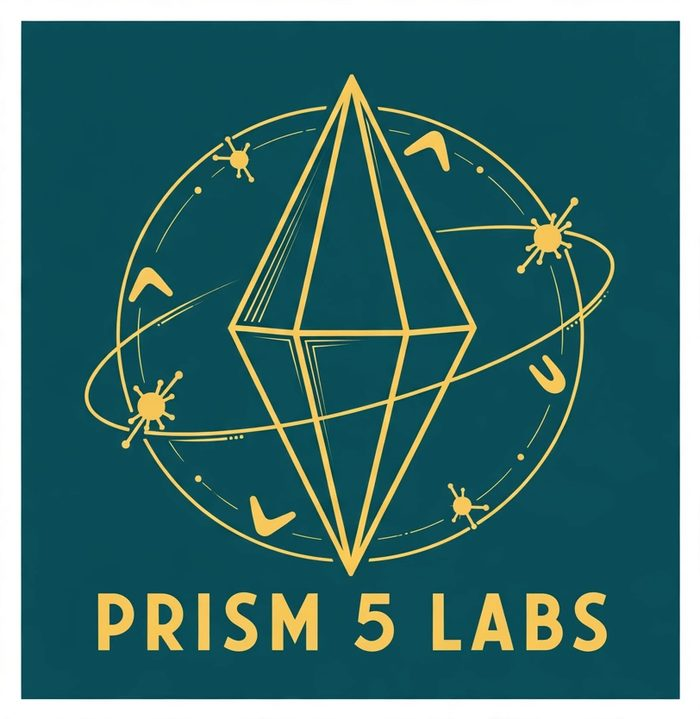
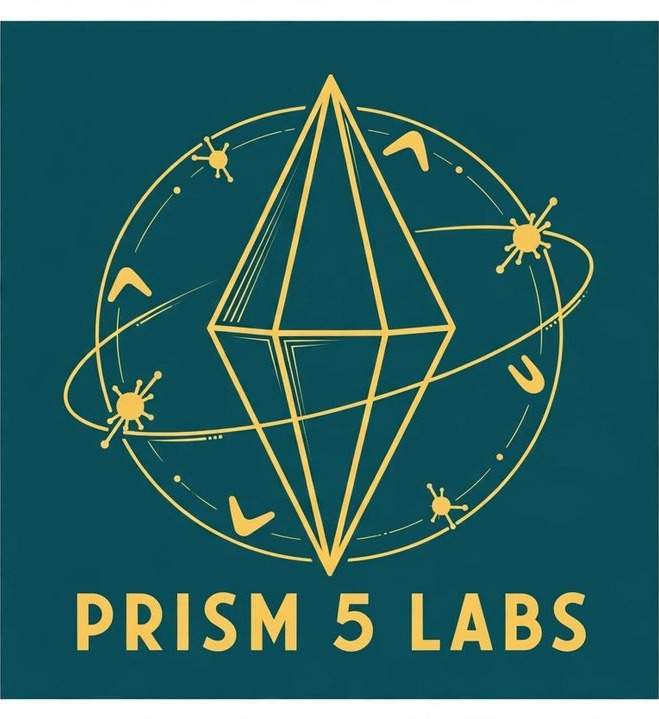
Sputnik hero: crop the 20px white strip off the right edge of sputnik.jpg (and 21px left) so the hero shows no white sliver; cache to v18

diff --git a/public/sw.js b/public/sw.js
@@ -1,11 +1,13 @@
 // Prism 5 service worker. Cache-first for the app shell and static assets,
 // network-first for the API (chat, state, and inboxes must always be fresh).
-// CACHE v17: bumped Nov 17, 2026 for the Start My Day Stripe links
-// (its two payment links are live and verified, so the catalog now
-// carries it as a real product with Buy buttons and the coming-soon card
-// is gone) on top of the v16 Inboxes Messages fix. The cache bump makes
-// existing installs fetch the new main.js instead of serving the cached one.
-const CACHE = "prism5-v17";
+// CACHE v18: bumped Nov 17, 2026 for the Sputnik hero image fix (the
+// source sputnik.jpg had a 20px white strip down its right edge — and
+// 21px on the left — so the hero showed a white sliver; the image is
+// cropped to the emblem, 659px wide, no white edge) on top of the v17
+// Start My Day Stripe links. The cache bump makes existing installs
+// fetch the new main.js and the new sputnik.jpg instead of serving the
+// cached ones.
+const CACHE = "prism5-v18";
 const SHELL = ["/", "/index.html", "/styles.css", "/main.js", "/manifest.json", "/opening-animation-v3.mp4", "/chat-bg/bg-rocket.jpg", "/chat-bg/bg-helmets.jpg", "/chat-bg/bg-starburst.jpg", "/chat-bg/bg-robot.jpg", "/chat-bg/bg-saucer.jpg", "/chat-bg/bg-raygun.jpg", "/chat-bg/bg-car.jpg", "/chat-bg/bg-pilot.jpg", "/chat-bg/bg-moonbase.jpg", "/chat-bg/bg-diner.jpg", "/chat-bg/bg-launchpad.jpg", "/chat-bg/bg-spacestation.jpg"];
 
 self.addEventListener("install", (event) => {
